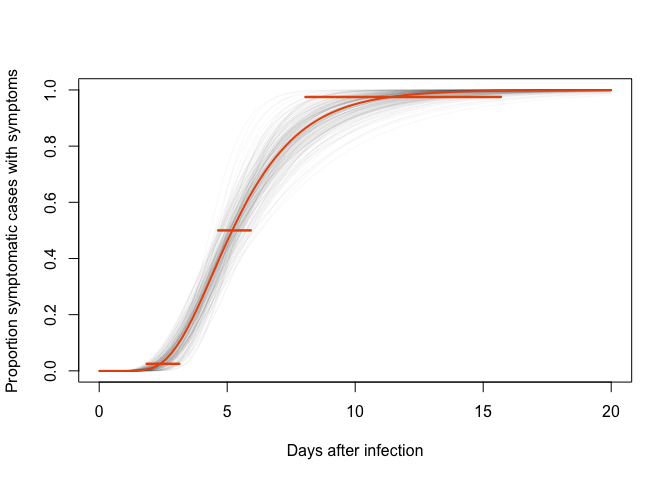
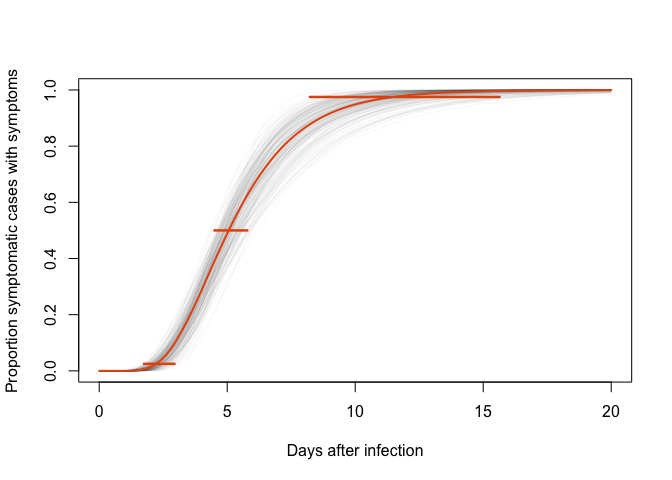
updated DOI and README md file and figures

Changed region(s): [[0.1875, 0.25, 0.4688, 0.7812], [0.4688, 0.1875, 0.7188, 0.25]]

diff --git a/README.md b/README.md
@@ -1,24 +1,23 @@
-[![DOI](https://zenodo.org/badge/236349745.svg)](https://zenodo.org/badge/latestdoi/236349745)
+\[![DOI](https://doi.org/10.5281/zenodo.3692048)
 
 Real-time estimation of the novel coronavirus incubation time
 =============================================================
 
-Updated: Thu Feb 27 19:18:17 2020
+Updated: Fri Feb 28 17:43:33 2020
 
 [Read the medRxiv
 preprint](https://www.medrxiv.org/content/10.1101/2020.02.02.20020016v1)
 
 Our lab has been collecting data (freely available at
 [`data/nCoV-IDD-traveler-data.csv`](https://github.com/HopkinsIDD/ncov_incubation/blob/master/data/nCoV-IDD-traveler-data.csv))
-on the exposure and symptom onset for novel coronavirus (nCoV-2019)
-cases that have been confirmed outside of the Hubei province. These
-cases have been confirmed either in other countries or in regions of
-China with no known local transmission. We search for news articles and
-reports in both English and Chinese and abstract the data necessary to
-estimate the incubation period of nCoV-2019. Two team members
-independently review the full text of each case report to ensure that
-data is correctly input. Discrepancies are resolved by discussion and
-consensus.
+on the exposure and symptom onset for novel coronavirus (COVID-19) cases
+that have been confirmed outside of the Hubei province. These cases have
+been confirmed either in other countries or in regions of China with no
+known local transmission. We search for news articles and reports in
+both English and Chinese and abstract the data necessary to estimate the
+incubation period of COVID-19. Two team members independently review the
+full text of each case report to ensure that data is correctly input.
+Discrepancies are resolved by discussion and consensus.
 
 Quick links:
 
@@ -69,7 +68,7 @@ we make the following assumptions:
     we use the time that the case is first presented to a hospital or,
     lacking that, the time that the source document was published
 -   For cases without an EL, we use 2019 December 1, which was the onset
-    date for the first reported nCoV-2019 case; though we will test this
+    date for the first reported COVID-19 case; though we will test this
     assumption later
 -   For cases without an ER, we use the SR
 -   For cases without an SL, we use the EL
@@ -103,68 +102,68 @@ The first model we fit is to all of the data and output the median,
 <tbody>
 <tr class="odd">
 <td>meanlog</td>
-<td style="text-align: right;">1.648</td>
-<td style="text-align: right;">1.537</td>
-<td style="text-align: right;">1.778</td>
+<td style="text-align: right;">1.621</td>
+<td style="text-align: right;">1.504</td>
+<td style="text-align: right;">1.755</td>
 </tr>
 <tr class="even">
 <td>sdlog</td>
-<td style="text-align: right;">0.399</td>
-<td style="text-align: right;">0.249</td>
-<td style="text-align: right;">0.529</td>
+<td style="text-align: right;">0.418</td>
+<td style="text-align: right;">0.271</td>
+<td style="text-align: right;">0.542</td>
 </tr>
 <tr class="odd">
 <td>p2.5</td>
-<td style="text-align: right;">2.378</td>
-<td style="text-align: right;">1.854</td>
-<td style="text-align: right;">3.127</td>
+<td style="text-align: right;">2.228</td>
+<td style="text-align: right;">1.750</td>
+<td style="text-align: right;">2.942</td>
 </tr>
 <tr class="even">
 <td>p5</td>
-<td style="text-align: right;">2.697</td>
-<td style="text-align: right;">2.180</td>
-<td style="text-align: right;">3.403</td>
+<td style="text-align: right;">2.542</td>
+<td style="text-align: right;">2.052</td>
+<td style="text-align: right;">3.234</td>
 </tr>
 <tr class="odd">
 <td>p25</td>
-<td style="text-align: right;">3.971</td>
-<td style="text-align: right;">3.517</td>
-<td style="text-align: right;">4.534</td>
+<td style="text-align: right;">3.814</td>
+<td style="text-align: right;">3.339</td>
+<td style="text-align: right;">4.378</td>
 </tr>
 <tr class="even">
 <td>p50</td>
-<td style="text-align: right;">5.197</td>
-<td style="text-align: right;">4.649</td>
-<td style="text-align: right;">5.918</td>
+<td style="text-align: right;">5.057</td>
+<td style="text-align: right;">4.500</td>
+<td style="text-align: right;">5.785</td>
 </tr>
 <tr class="odd">
 <td>p75</td>
-<td style="text-align: right;">6.802</td>
-<td style="text-align: right;">5.721</td>
-<td style="text-align: right;">8.177</td>
+<td style="text-align: right;">6.705</td>
+<td style="text-align: right;">5.664</td>
+<td style="text-align: right;">7.895</td>
 </tr>
 <tr class="even">
 <td>p95</td>
-<td style="text-align: right;">10.017</td>
-<td style="text-align: right;">7.440</td>
-<td style="text-align: right;">13.315</td>
+<td style="text-align: right;">10.061</td>
+<td style="text-align: right;">7.545</td>
+<td style="text-align: right;">13.227</td>
 </tr>
 <tr class="odd">
 <td>p97.5</td>
-<td style="text-align: right;">11.358</td>
-<td style="text-align: right;">8.058</td>
-<td style="text-align: right;">15.688</td>
+<td style="text-align: right;">11.478</td>
+<td style="text-align: right;">8.230</td>
+<td style="text-align: right;">15.638</td>
 </tr>
 </tbody>
 </table>
 
-The median incubation period lasts 5.197 days (CI: 4.649-5.918). The
-2.5% of incubation periods pass in less than 2.378 days (CI:
-1.854-3.127), while 97.5% of the population would experience symptoms by
-11.358 days (CI: 8.058-15.688) since their exposure. The ‘meanlog’ and
-‘sdlog’ estimates are the median and dispersion parameters for a
-LogNormal distribution; i.e. we recommend using a LogNormal(1.648,
-0.399) distribution to appropriately represent the incubation time
+The median incubation period lasts 5.057 days (CI: 4.5-5.785). The 2.5%
+of incubation periods pass in less than 2.228 days (CI: 1.75-2.942),
+while 97.5% of the population would experience symptoms by 11.478 days
+(CI: 8.23-15.638) since their exposure. The ‘meanlog’ and ‘sdlog’
+estimates are the median and dispersion parameters for a LogNormal
+distribution; i.e. we recommend using a LogNormal(1.621, 0.418)
+distribution to appropriately represent the incubation time
 distribution.
 
 Alternate estimates and sensitivity analyses
@@ -182,15 +181,15 @@ the Weibull distribution has a slightly smaller value at the 2.5th
 percentile and the log-normal distribution has a slightly larger value
 at the 97.5th percentile. The log-likelihoods were very similar between
 distributions; the log-normal distribution having the largest
-log-likelihood (57.88) and the Weibull distribution having the smallest
-log-likelihood (54.53).
+log-likelihood (55.16) and the Weibull distribution having the smallest
+log-likelihood (51.89).
 
-The gamma distribution has an estimated shape parameter of 6.34 (95% CI:
-3.82-16.17) and a scale parameter of 0.89 (95% CI: 0.32-1.63). The
-Weibull distribution has an estimated shape parameter of 2.55 (95% CI:
-1.99-4.42) and a scale parameter of 6.38 (95% CI: 5.43-7.51). The Erlang
-distribution has an estimated shape parameter of 7 (95% CI: 4-10) and a
-scale parameter of 0.82 (95% CI: 0.57-1.58).
+The gamma distribution has an estimated shape parameter of 5.81 (95% CI:
+3.58-13.87) and a scale parameter of 0.95 (95% CI: 0.37-1.7). The
+Weibull distribution has an estimated shape parameter of 2.45 (95% CI:
+1.92-4.17) and a scale parameter of 6.26 (95% CI: 5.36-7.26). The Erlang
+distribution has an estimated shape parameter of 6 (95% CI: 3-10) and a
+scale parameter of 0.87 (95% CI: 0.56-1.95).
 
 ### Sensitivity analyses
 
@@ -208,7 +207,7 @@ setting unknown ELs to 2018 December 1.
 
 <img src="README_files/figure-markdown_strict/all-sens-plot-1.png" style="display: block; margin: auto;" />
 
-Using only fevers, the estimates are 0.259 to 1.173 days longer than the
+Using only fevers, the estimates are 0.409 to 1.053 days longer than the
 estimates on the full data. 12 of the cases with a fever reported having
 other symptoms beforehand. While it may take a little longer for an
 exposure to cause a fever, the estimates are similar to those of the
@@ -216,12 +215,12 @@ overall results. The confidence intervals are wider here at every
 quantile due to having less data.
 
 Using only cases from outside of Mainland China, the estimates are
--0.096 to 2.984 days longer than the estimates on the full data. There
+-0.156 to 3.264 days longer than the estimates on the full data. There
 is a bit of a gap on the long end of the tail, but the confidence
 intervals overlap for the most part.
 
 When we set the unknown ELs to 2018 December 1 instead of 2019 December
-1, the estimates are 0.005 to 0.248 days longer than the estimates on
+1, the estimates are 0.128 to 0.202 days longer than the estimates on
 the full data. Somewhat surprisingly, this changes the estimates less
 than either of the other alternate estimates.
 
@@ -269,29 +268,29 @@ distributions.
 <td style="text-align: left;">JHU-IDD</td>
 <td style="text-align: center;">log-normal</td>
 <td style="text-align: right;">181</td>
-<td style="text-align: right;">1.65</td>
-<td style="text-align: right;">0.40</td>
+<td style="text-align: right;">1.62</td>
+<td style="text-align: right;">0.42</td>
 </tr>
 <tr class="even">
 <td style="text-align: left;">JHU-IDD</td>
 <td style="text-align: center;">gamma</td>
 <td style="text-align: right;">181</td>
-<td style="text-align: right;">6.34</td>
-<td style="text-align: right;">0.89</td>
+<td style="text-align: right;">5.81</td>
+<td style="text-align: right;">0.95</td>
 </tr>
 <tr class="odd">
 <td style="text-align: left;">JHU-IDD</td>
 <td style="text-align: center;">Weibull</td>
 <td style="text-align: right;">181</td>
-<td style="text-align: right;">2.55</td>
-<td style="text-align: right;">6.38</td>
+<td style="text-align: right;">2.45</td>
+<td style="text-align: right;">6.26</td>
 </tr>
 <tr class="even">
 <td style="text-align: left;">JHU-IDD</td>
 <td style="text-align: center;">Erlang</td>
 <td style="text-align: right;">181</td>
-<td style="text-align: right;">7.00</td>
-<td style="text-align: right;">0.82</td>
+<td style="text-align: right;">6.00</td>
+<td style="text-align: right;">0.87</td>
 </tr>
 <tr class="odd">
 <td style="text-align: left;">Backer 2020</td>
@@ -350,30 +349,30 @@ infection), ‘medium risk’ (1/1,000), ‘high risk’ (1/100), and ‘infecte
 <tr class="odd">
 <td style="text-align: left;">7 days</td>
 <td style="text-align: left;">0.2 (0.4)</td>
-<td style="text-align: left;">2.2 (3.9)</td>
-<td style="text-align: left;">22.4 (39.0)</td>
-<td style="text-align: left;">2244.2 (3903.8)</td>
+<td style="text-align: left;">2.1 (3.6)</td>
+<td style="text-align: left;">21.2 (36.5)</td>
+<td style="text-align: left;">2120.6 (3648.5)</td>
 </tr>
 <tr class="even">
 <td style="text-align: left;">14 days</td>
-<td style="text-align: left;">0.0 (0.1)</td>
+<td style="text-align: left;">0.0 (0.0)</td>
 <td style="text-align: left;">0.1 (0.5)</td>
-<td style="text-align: left;">1.0 (5.1)</td>
-<td style="text-align: left;">101.8 (508.0)</td>
+<td style="text-align: left;">1.0 (4.8)</td>
+<td style="text-align: left;">100.9 (481.7)</td>
 </tr>
 <tr class="odd">
 <td style="text-align: left;">21 days</td>
 <td style="text-align: left;">0.0 (0.0)</td>
 <td style="text-align: left;">0.0 (0.1)</td>
-<td style="text-align: left;">0.1 (0.9)</td>
-<td style="text-align: left;">9.1 (85.4)</td>
+<td style="text-align: left;">0.1 (0.8)</td>
+<td style="text-align: left;">9.5 (82.5)</td>
 </tr>
 <tr class="even">
 <td style="text-align: left;">28 days</td>
 <td style="text-align: left;">0.0 (0.0)</td>
 <td style="text-align: left;">0.0 (0.0)</td>
 <td style="text-align: left;">0.0 (0.2)</td>
-<td style="text-align: left;">1.3 (18.3)</td>
+<td style="text-align: left;">1.4 (17.8)</td>
 </tr>
 </tbody>
 </table>
@@ -395,8 +394,8 @@ and the red bars indicate the hospitalization windows for each case.
 Purple areas are where those two bars overlap.
 </p>
 
-Of the 168 individuals who developed symptoms in the community (as
-opposed to in isolation), 55 (33%) were hospitalized within a day.
+Of the 169 individuals who developed symptoms in the community (as
+opposed to in isolation), 56 (33%) were hospitalized within a day.
 
 We modeled the time to hospitalization as a gamma distribution:
 
@@ -414,15 +413,15 @@ We modeled the time to hospitalization as a gamma distribution:
 <tbody>
 <tr class="odd">
 <td>shape</td>
-<td style="text-align: right;">0.403</td>
-<td style="text-align: right;">0.294</td>
-<td style="text-align: right;">0.535</td>
+<td style="text-align: right;">0.401</td>
+<td style="text-align: right;">0.296</td>
+<td style="text-align: right;">0.534</td>
 </tr>
 <tr class="even">
 <td>scale</td>
-<td style="text-align: right;">4.624</td>
-<td style="text-align: right;">3.368</td>
-<td style="text-align: right;">6.231</td>
+<td style="text-align: right;">4.620</td>
+<td style="text-align: right;">3.363</td>
+<td style="text-align: right;">6.109</td>
 </tr>
 <tr class="odd">
 <td>p2.5</td>
@@ -432,27 +431,27 @@ We modeled the time to hospitalization as a gamma distribution:
 </tr>
 <tr class="even">
 <td>p25</td>
-<td style="text-align: right;">0.112</td>
-<td style="text-align: right;">0.034</td>
+<td style="text-align: right;">0.110</td>
+<td style="text-align: right;">0.037</td>
 <td style="text-align: right;">0.239</td>
 </tr>
 <tr class="odd">
 <td>p50</td>
-<td style="text-align: right;">0.682</td>
-<td style="text-align: right;">0.382</td>
-<td style="text-align: right;">1.024</td>
+<td style="text-align: right;">0.674</td>
+<td style="text-align: right;">0.386</td>
+<td style="text-align: right;">1.026</td>
 </tr>
 <tr class="even">
 <td>p75</td>
-<td style="text-align: right;">2.356</td>
-<td style="text-align: right;">1.772</td>
-<td style="text-align: right;">3.023</td>
+<td style="text-align: right;">2.339</td>
+<td style="text-align: right;">1.748</td>
+<td style="text-align: right;">2.986</td>
 </tr>
 <tr class="odd">
 <td>p97.5</td>
-<td style="text-align: right;">10.329</td>
-<td style="text-align: right;">8.131</td>
-<td style="text-align: right;">12.527</td>
+<td style="text-align: right;">10.292</td>
+<td style="text-align: right;">8.075</td>
+<td style="text-align: right;">12.640</td>
 </tr>
 </tbody>
 </table>
